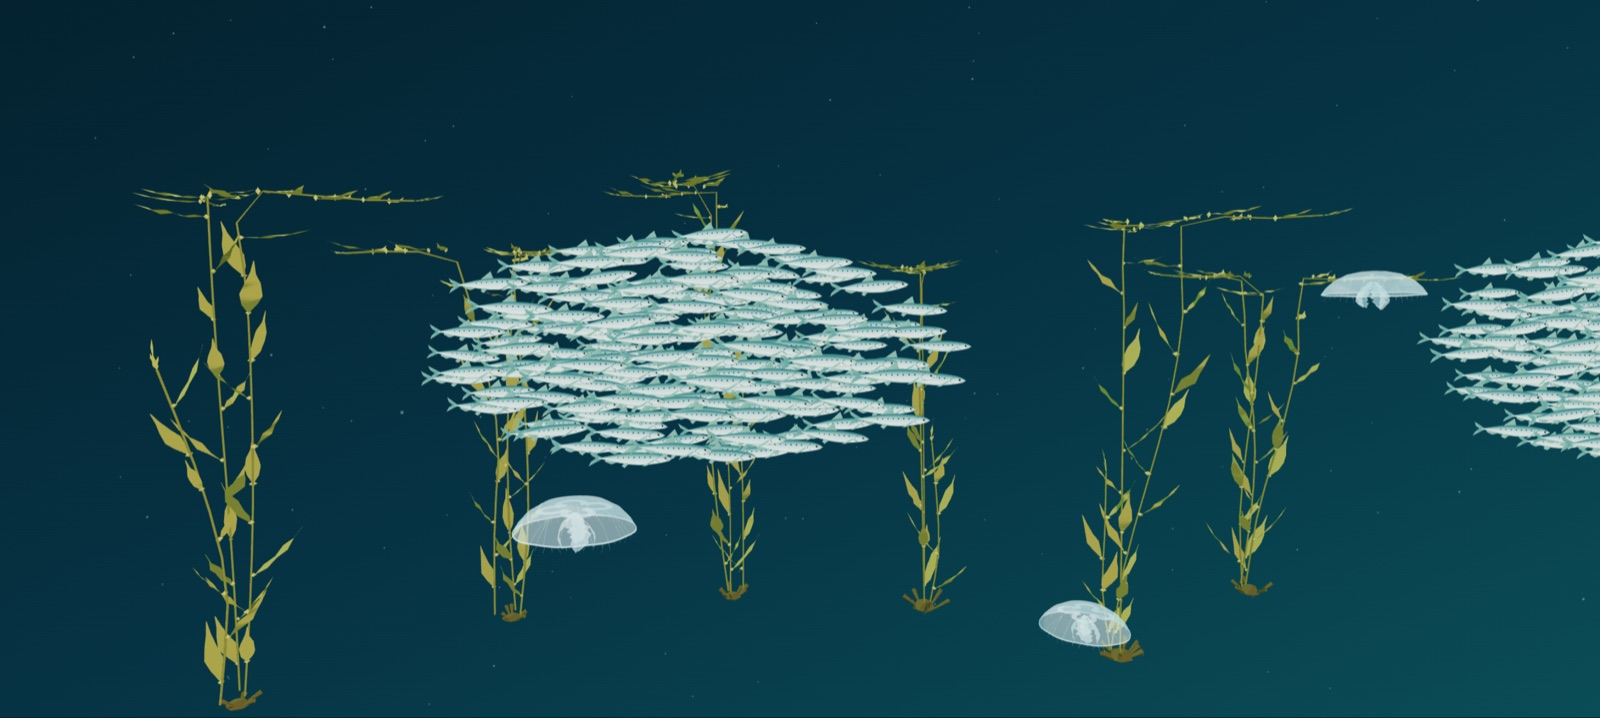
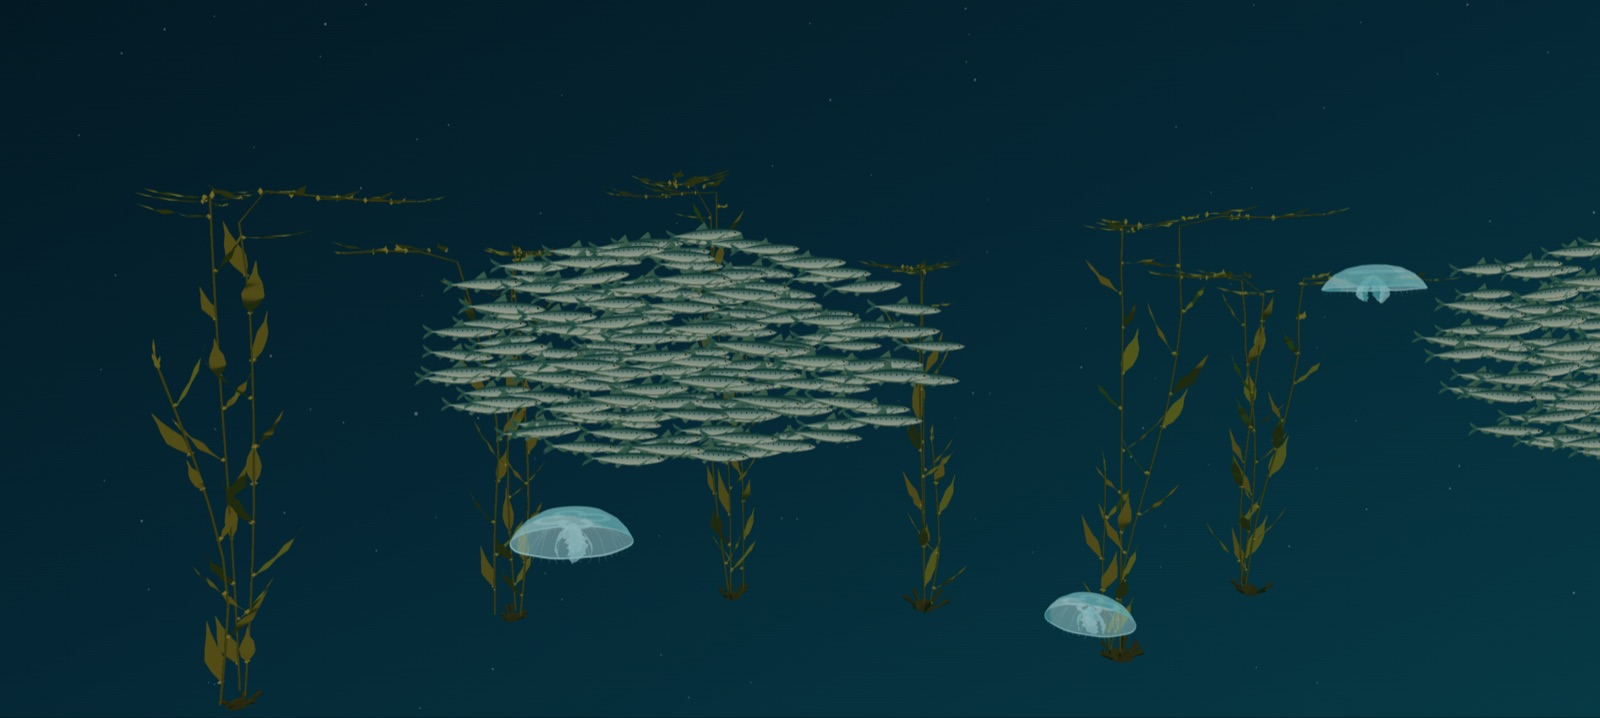
feat(home): cursor-averse sardines, calmer lighting, mission copy
- The school parts around the pointer: an avoidance force in the schooling
  step plus a brief speed allowance, tuned so fish clear a ~0.6 m hole and
  keep schooling around it (verified headless: 18 fish inside 0.3 m -> 0)
- Lighting pulled back from overexposure: exposure 1.28 -> 0.92, environment
  intensity 1.05 -> 0.62, key/rim dropped, fog denser and darker
- Remove the visible scene caption; the description now lives in an sr-only
  paragraph referenced by aria-describedby
- Lead with the mission: "Technology is for everyone. So is this community."
  and copy covering engineers, students, founders and the tech-curious
- Regenerate the poster from the new lighting

diff --git a/app/components/ocean/OceanScene.tsx b/app/components/ocean/OceanScene.tsx
@@ -11,6 +11,7 @@ import {
   Mesh,
   MeshToonMaterial,
   PMREMGenerator,
+  Vector3,
   type PerspectiveCamera,
 } from 'three';
 import { RGBELoader } from 'three/examples/jsm/loaders/RGBELoader.js';
@@ -76,7 +77,7 @@ function BayEnvironment() {
     const pmrem = new PMREMGenerator(gl);
     const environment = pmrem.fromEquirectangular(hdr).texture;
     scene.environment = environment;
-    scene.environmentIntensity = 1.05;
+    scene.environmentIntensity = 0.62;
     pmrem.dispose();
     hdr.dispose();
 
@@ -139,7 +140,7 @@ function MarineSnow({ count = 140 }: { count?: number }) {
  * right edge reappears at the left mid-stroke and keeps swimming.
  */
 function SardineSchools({ compact }: { compact: boolean }) {
-  const { size } = useThree();
+  const { size, gl, camera } = useThree();
   const perSchool = compact ? SCHOOL.count.compact : SCHOOL.count.full;
 
   const schools = useMemo(
@@ -157,8 +158,35 @@ function SardineSchools({ compact }: { compact: boolean }) {
   );
 
   const travel = useRef(0);
+  const pointer = useRef({ x: 0, y: 0, active: false });
+  const world = useMemo(() => new Vector3(), []);
 
   useEffect(() => () => schools.forEach((school) => school.dispose()), [schools]);
+
+  // The hero's copy and scrims sit above the canvas, so listen on the window and
+  // filter by the canvas rect; a listener on the canvas itself never fires.
+  useEffect(() => {
+    if (compact) return;
+    const element = gl.domElement;
+
+    const move = (event: PointerEvent) => {
+      const rect = element.getBoundingClientRect();
+      const inside =
+        event.clientX >= rect.left &&
+        event.clientX <= rect.right &&
+        event.clientY >= rect.top &&
+        event.clientY <= rect.bottom;
+
+      pointer.current.active = inside;
+      if (!inside) return;
+
+      pointer.current.x = ((event.clientX - rect.left) / rect.width) * 2 - 1;
+      pointer.current.y = -(((event.clientY - rect.top) / rect.height) * 2 - 1);
+    };
+
+    window.addEventListener('pointermove', move, { passive: true });
+    return () => window.removeEventListener('pointermove', move);
+  }, [compact, gl]);
 
   useFrame((state, delta) => {
     const dt = Math.min(delta, 0.05);
@@ -171,9 +199,26 @@ function SardineSchools({ compact }: { compact: boolean }) {
     const localWidth = Math.max(6, worldWidth / SCHOOL.scale + 1.5);
     const localTravel = travel.current / SCHOOL.scale;
 
+    // Screen point on the school's plane, converted into local (pre-travel) space.
+    let threatX = 0;
+    let threatY = 0;
+    if (pointer.current.active) {
+      world
+        .set(pointer.current.x, pointer.current.y, 0.5)
+        .unproject(state.camera as PerspectiveCamera)
+        .sub(state.camera.position)
+        .normalize();
+      const reach = (SCHOOL.z - state.camera.position.z) / world.z;
+      threatX = -(state.camera.position.x + world.x * reach) / SCHOOL.scale;
+      threatY = (state.camera.position.y + world.y * reach - SCHOOL.y) / SCHOOL.scale;
+    }
+
     schools.forEach((school, index) => {
+      const offset = localTravel + (index * localWidth) / 2;
       school.setWrapWidth(localWidth);
-      school.setTravel(localTravel + (index * localWidth) / 2);
+      school.setTravel(offset);
+      // Fish are rendered at position − travel, so aim the cursor that far ahead.
+      school.setThreat(threatX + offset, threatY, 0, pointer.current.active);
       school.update(dt);
     });
   });
@@ -335,7 +380,7 @@ const OceanScene: React.FC<OceanSceneProps> = ({ compact, onReady }) => {
       frameloop='always'
       onCreated={({ gl }) => {
         gl.setClearAlpha(0);
-        gl.toneMappingExposure = 1.28;
+        gl.toneMappingExposure = 0.92;
         onReady?.();
       }}
       aria-hidden='true'>
@@ -343,13 +388,14 @@ const OceanScene: React.FC<OceanSceneProps> = ({ compact, onReady }) => {
         <BayEnvironment />
       </Suspense>
 
-      <fogExp2 attach='fog' args={['#0a3346', 0.026]} />
+      <fogExp2 attach='fog' args={['#07242f', 0.034]} />
 
-      {/* The environment map carries ambient light; these two give shape and rim. */}
-      <directionalLight position={[5, 7, 6]} intensity={2.6} color='#fff1d6' />
-      <directionalLight position={[-6, 2.5, -4]} intensity={1.9} color='#5ff0cf' />
-      <directionalLight position={[1.5, 1.5, 7]} intensity={1.1} color='#dff7ff' />
-      <directionalLight position={[2, -3, 5]} intensity={0.7} color='#1d6f7a' />
+      {/* Most of the light comes from the environment map now. A single warm key
+          gives direction, and two dim colour lights keep the shapes readable
+          without washing the water out. */}
+      <directionalLight position={[5, 7, 6]} intensity={1.35} color='#ffeed2' />
+      <directionalLight position={[-6, 2.5, -4]} intensity={0.75} color='#4be0c2' />
+      <directionalLight position={[2, -3, 5]} intensity={0.25} color='#16505c' />
 
       <MarineLife compact={compact} />
       <CameraRig enabled={parallax} />

diff --git a/app/components/ocean/cozy/school/schooling.ts b/app/components/ocean/cozy/school/schooling.ts
@@ -91,6 +91,12 @@ export function createSchooling(capacity: number, bodyLength: number, traits: Sc
     const u = x / Math.max(1e-6, radii.x);
     return out.set(0, Math.sin(time * .23 + u * 1.3) * radii.y * traits.flex.bend * .5, Math.sin(time * .31 - u * 1.9) * radii.z * traits.flex.bend);
   }
+  // An optional point of avoidance, in local space (a cursor, for instance).
+  const threat = new Vector3();
+  let threatOn = false, threatRadius = spacing * 2.2;
+  function setThreat(x: number, y: number, z: number, active = true, radius = spacing * 2.2) {
+    threat.set(x, y, z); threatOn = active; threatRadius = radius;
+  }
   const p = new Vector3(), q = new Vector3(), v = new Vector3(), force = new Vector3(), sep = new Vector3(), ali = new Vector3(), coh = new Vector3(), mid = new Vector3();
   function nearest(i: number) {
     p.fromArray(position, i * 3); let found = 0;
@@ -134,13 +140,26 @@ export function createSchooling(capacity: number, bodyLength: number, traits: Sc
       centre(p.x, mid); q.subVectors(p, mid).divide(radii).divideScalar(breathe);
       const e = q.length();
       if (e > .75) force.addScaledVector(q.normalize().multiply(radii), -w.envelope * (e - .75));
+      // Avoid the cursor: a soft repulsion that grows as fish get close, plus
+      // a little urgency so they dart away rather than drift.
+      let flight = 0;
+      if (threatOn) {
+        q.subVectors(p, threat);
+        const d = q.length();
+        if (d < threatRadius) {
+          flight = 1 - d / threatRadius;
+          force.addScaledVector(q.divideScalar(Math.max(d, 1e-3)), flight * flight * w.separation * bodyLength * 34);
+        }
+      }
       // Personal wander: smooth, per-fish, small.
       const [wp, wf, wa] = [wander[i * 3], wander[i * 3 + 1], wander[i * 3 + 2]];
       force.x += Math.sin(time * wf + wp) * wa * w.wander * bodyLength;
       force.y += Math.sin(time * wf * 1.3 + wp * 2.1) * wa * .4 * w.wander * bodyLength;
       force.z += Math.cos(time * wf * .8 + wp * 1.7) * wa * w.wander * bodyLength;
       v.addScaledVector(force, dt).multiplyScalar(Math.exp(-.8 * dt));
-      if (v.length() > maxSpeed) v.setLength(maxSpeed);
+      // Fish near the cursor may briefly swim well above cruising speed.
+      const speedLimit = maxSpeed * (1 + 2.2 * flight);
+      if (v.length() > speedLimit) v.setLength(speedLimit);
       p.addScaledVector(v, dt);
       // Hard limit keeps the conservative bounds honest.
       centre(p.x, mid); q.subVectors(p, mid).divide(limit);
@@ -181,5 +200,5 @@ export function createSchooling(capacity: number, bodyLength: number, traits: Sc
     if (count <= 1) { target.min.setScalar(-pad); target.max.setScalar(pad); }
     return target;
   }
-  return { position, velocity, scale, phase, get count() { return count; }, get radii() { return radii; }, reset, update, pose, remove, bounds };
+  return { position, velocity, scale, phase, get count() { return count; }, get radii() { return radii; }, reset, update, pose, remove, bounds, setThreat };
 }

diff --git a/app/components/ocean/OceanHero.tsx b/app/components/ocean/OceanHero.tsx
@@ -91,10 +91,11 @@ const OceanHero: React.FC = () => {
     <section
       ref={sectionRef}
       aria-labelledby='ocean-hero-heading'
+      aria-describedby='ocean-hero-description'
       className='relative isolate -mt-8 overflow-hidden bg-[#04222f] text-white'>
       {/* Decorative backdrop: poster first, live scene on top once it is ready. */}
       <div className='absolute inset-0' aria-hidden='true'>
-        <div className='absolute inset-0 bg-gradient-to-br from-[#04222f] via-[#063344] to-[#0a4d56]' />
+        <div className='absolute inset-0 bg-gradient-to-br from-[#031a24] via-[#052836] to-[#063a45]' />
         <Image
           src='/assets/ocean-hero-poster.jpg'
           alt=''
@@ -138,12 +139,20 @@ const OceanHero: React.FC = () => {
           <h1
             id='ocean-hero-heading'
             className='text-4xl font-bold leading-[1.05] tracking-tight text-white sm:text-5xl lg:text-6xl'>
-            A tech community with the ocean in its backyard.
+            Technology is for everyone. So is this community.
           </h1>
 
-          <p className='mt-5 max-w-lg text-base leading-relaxed text-white/80 sm:text-lg'>
-            Meetups, hack nights and workshops across Monterey Bay. Come for the
-            code, stay for the people.
+          <p className='mt-5 max-w-lg text-base leading-relaxed text-white/85 sm:text-lg'>
+            We bring together people in and around Monterey Bay who love
+            technology — engineers, students, founders and the tech-curious.
+            Talks, hack nights and workshops at every level. Come for the code,
+            stay for the people.
+          </p>
+
+          <p id='ocean-hero-description' className='sr-only'>
+            Decorative moving illustration: a school of Pacific sardines swims
+            through swaying giant kelp, with moon jellies drifting past. The
+            sardines turn away from the pointer.
           </p>
 
           <div className='mt-8 flex flex-col gap-3 sm:flex-row sm:items-center'>
@@ -173,13 +182,6 @@ const OceanHero: React.FC = () => {
             </a>
           </div>
 
-          <div className='mt-10 flex flex-wrap items-center gap-x-4 gap-y-2 text-xs text-white/85'>
-            <p className='max-w-sm leading-relaxed'>
-              {sceneActive
-                ? 'Animated: a school of Pacific sardines moves through swaying giant kelp and moon jellies.'
-                : 'Illustration: a school of Pacific sardines moves through swaying giant kelp and moon jellies.'}
-            </p>
-          </div>
         </div>
       </div>
     </section>

diff --git a/app/components/ocean/cozy/sardine/createSardineSchool.ts b/app/components/ocean/cozy/sardine/createSardineSchool.ts
@@ -30,6 +30,8 @@ export interface SardineSchool extends Omit<FishModel, 'physics' | 'parts'> {
   setTravel(travel: number): void;
   /** The visible width in local units; fish wrap at its edges. */
   setWrapWidth(width: number): void;
+  /** A point the school swims away from, in local space. */
+  setThreat(x: number, y: number, z: number, active?: boolean): void;
 }
 
 /** Shared geometry + per-instance morph weights, one visible draw for the entire school. */
@@ -138,6 +140,7 @@ export function createSardineSchool({ count = 48, capacity = 256, lengthMeters =
     setTravel(next: number) { travel = wrapWidth > 0 ? next % wrapWidth : next; },
     /** The visible width in local units; fish wrap at its edges. */
     setWrapWidth(next: number) { wrapWidth = Math.max(0, next); },
+    setThreat(x: number, y: number, z: number, active = true) { formation.setThreat(x, y, z, active); },
     setSwimMode(next, immediate = false) { if (disposed) return; if (next !== 'slow' && next !== 'fast') throw new Error(`Unknown swim mode: ${next}`); mode = next; if (immediate) blend = next === 'fast' ? 1 : 0; pose(); },
     setLifeState(next) { if (disposed) return; if (next !== 'alive' && next !== 'caught') throw new Error(`Unknown fish state: ${next}`); lifeState = next; pose(); },
     setMotionOwner(next) { if (disposed) return; if (!['external', 'path', 'physics'].includes(next)) throw new Error(`Unknown motion owner: ${next}`); motionOwner = next; },

diff --git a/app/components/ocean/cozy/ATTRIBUTION.md b/app/components/ocean/cozy/ATTRIBUTION.md
@@ -25,7 +25,12 @@ copied from [Monterey Bay Cozy](https://github.com/matthewbcool/Monterey-Bay-Coz
 ## Adaptations
 
 - **Sardine school.** `createSardineSchool()` builds one instanced draw for the
-  whole school (shared geometry, per-instance morph weights). The sea otter was
+  whole school (shared geometry, per-instance morph weights). This copy adds two
+  optional behaviours the hero needs: `setWrapWidth()`/`setTravel()` wrap each
+  fish across the visible width for an endless current, and
+  `schooling.setThreat()` adds a localised avoidance force plus a brief speed
+  allowance so the school parts around the pointer. Both default to off, so the
+  upstream behaviour is unchanged for any other use. The sea otter was
   vendored for an earlier revision of the hero and is currently unused; it is
   kept because it is complete and cheap to re-enable.
 - **No distance LOD.** Upstream calls `defineGeometryLods()` (meshoptimizer WASM)
